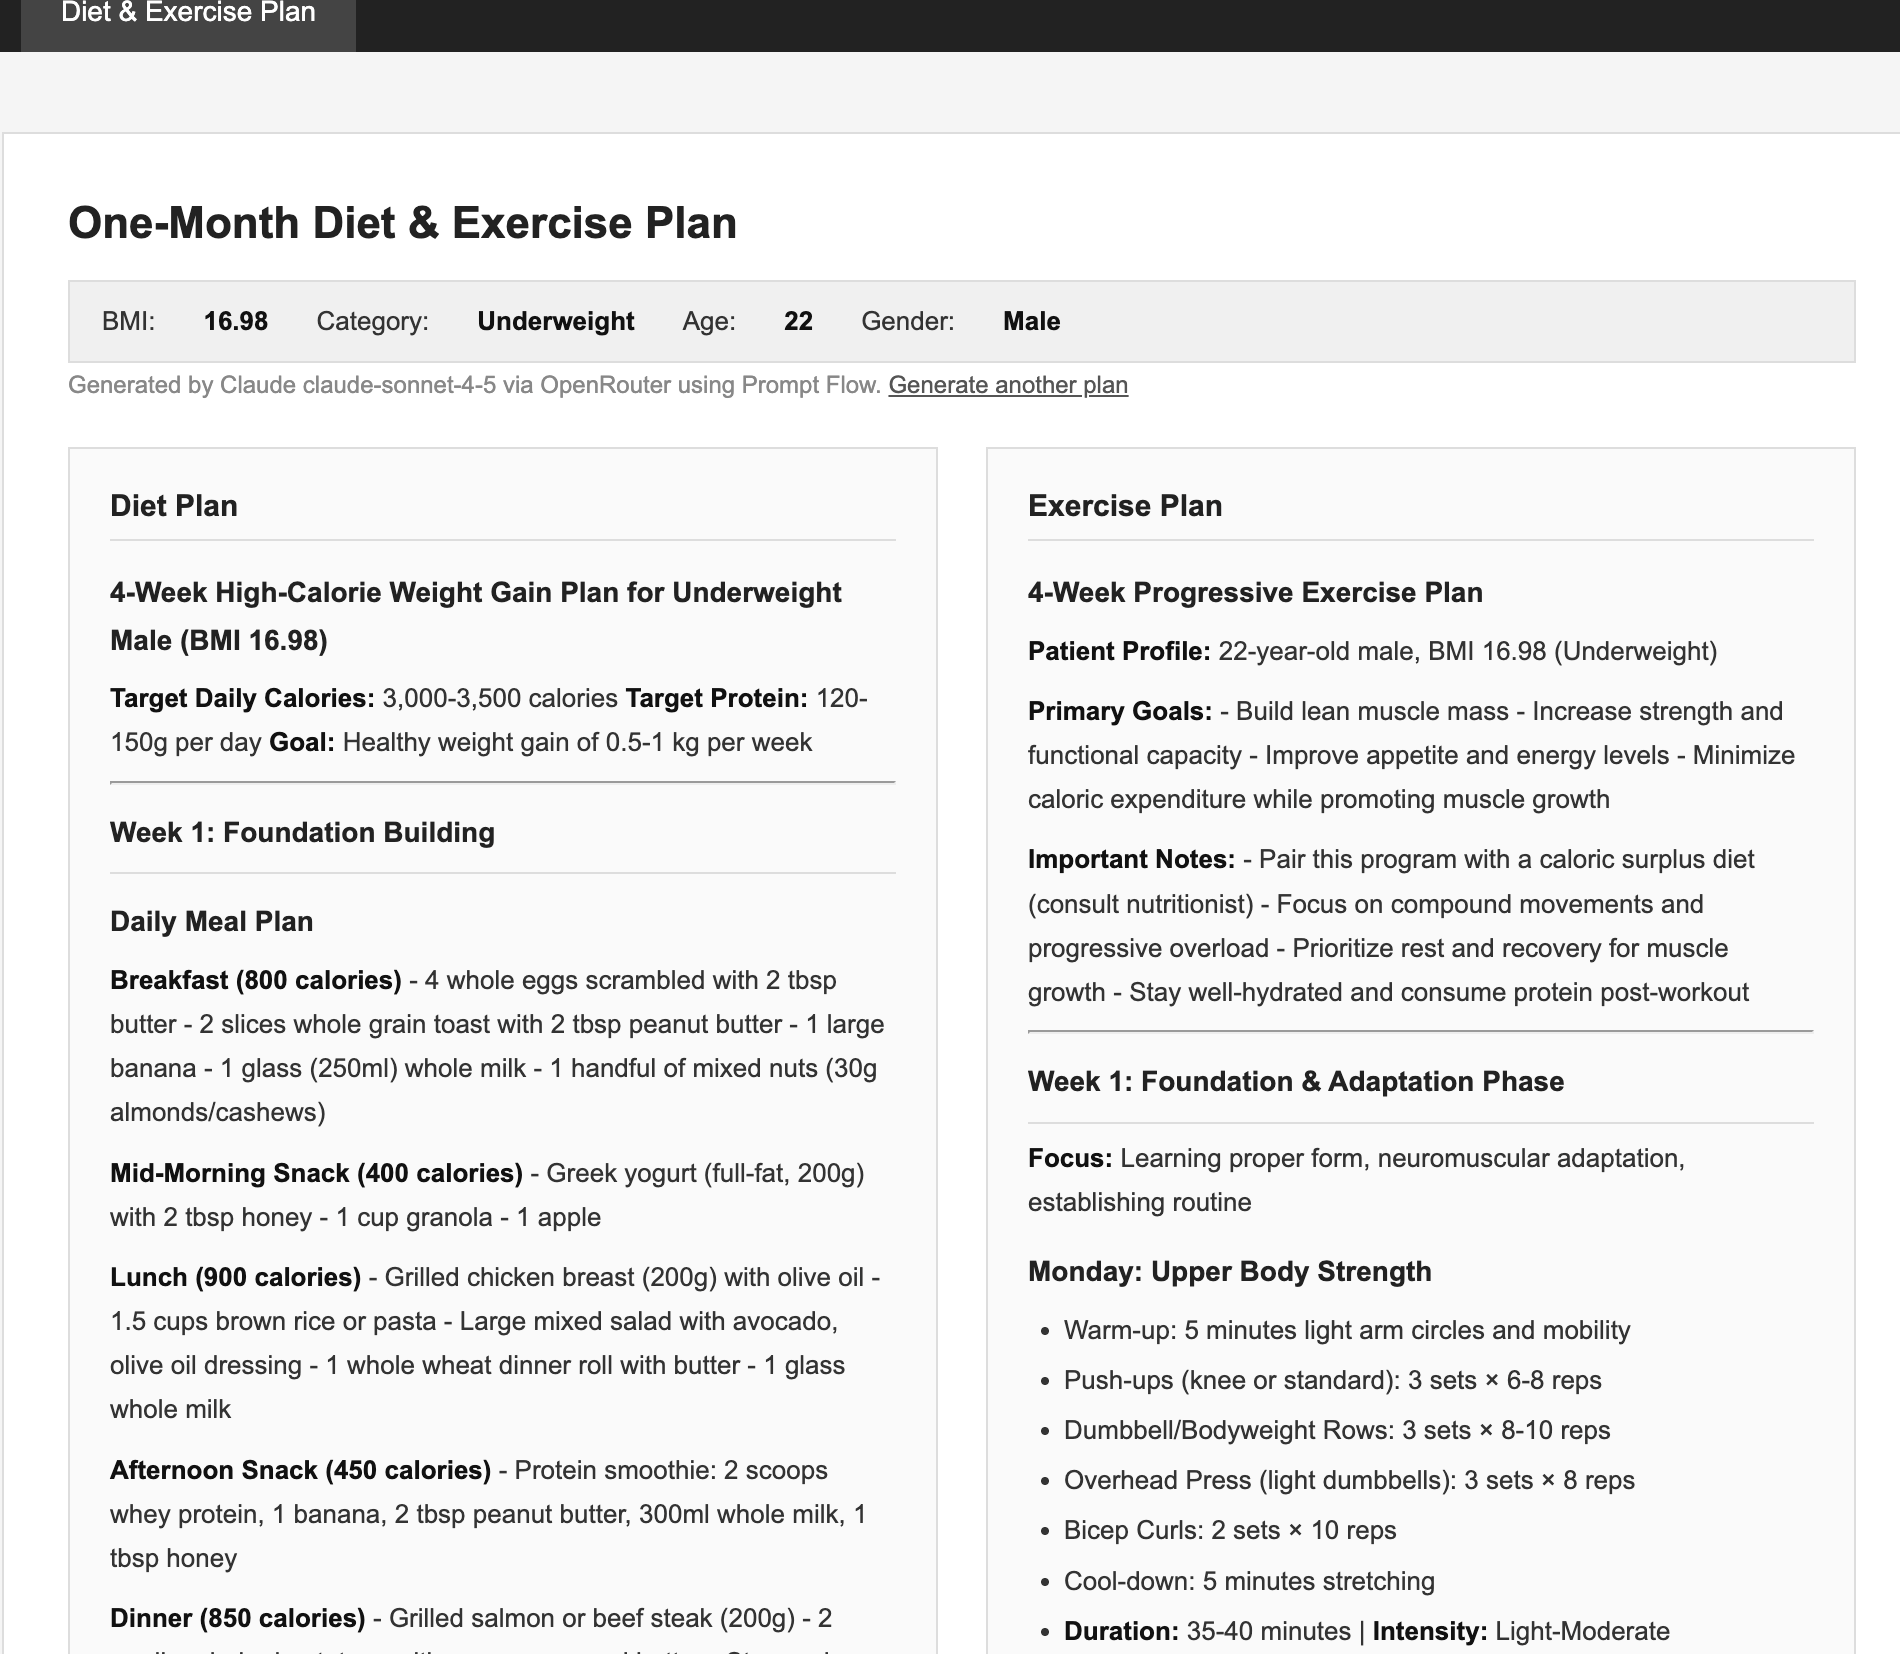
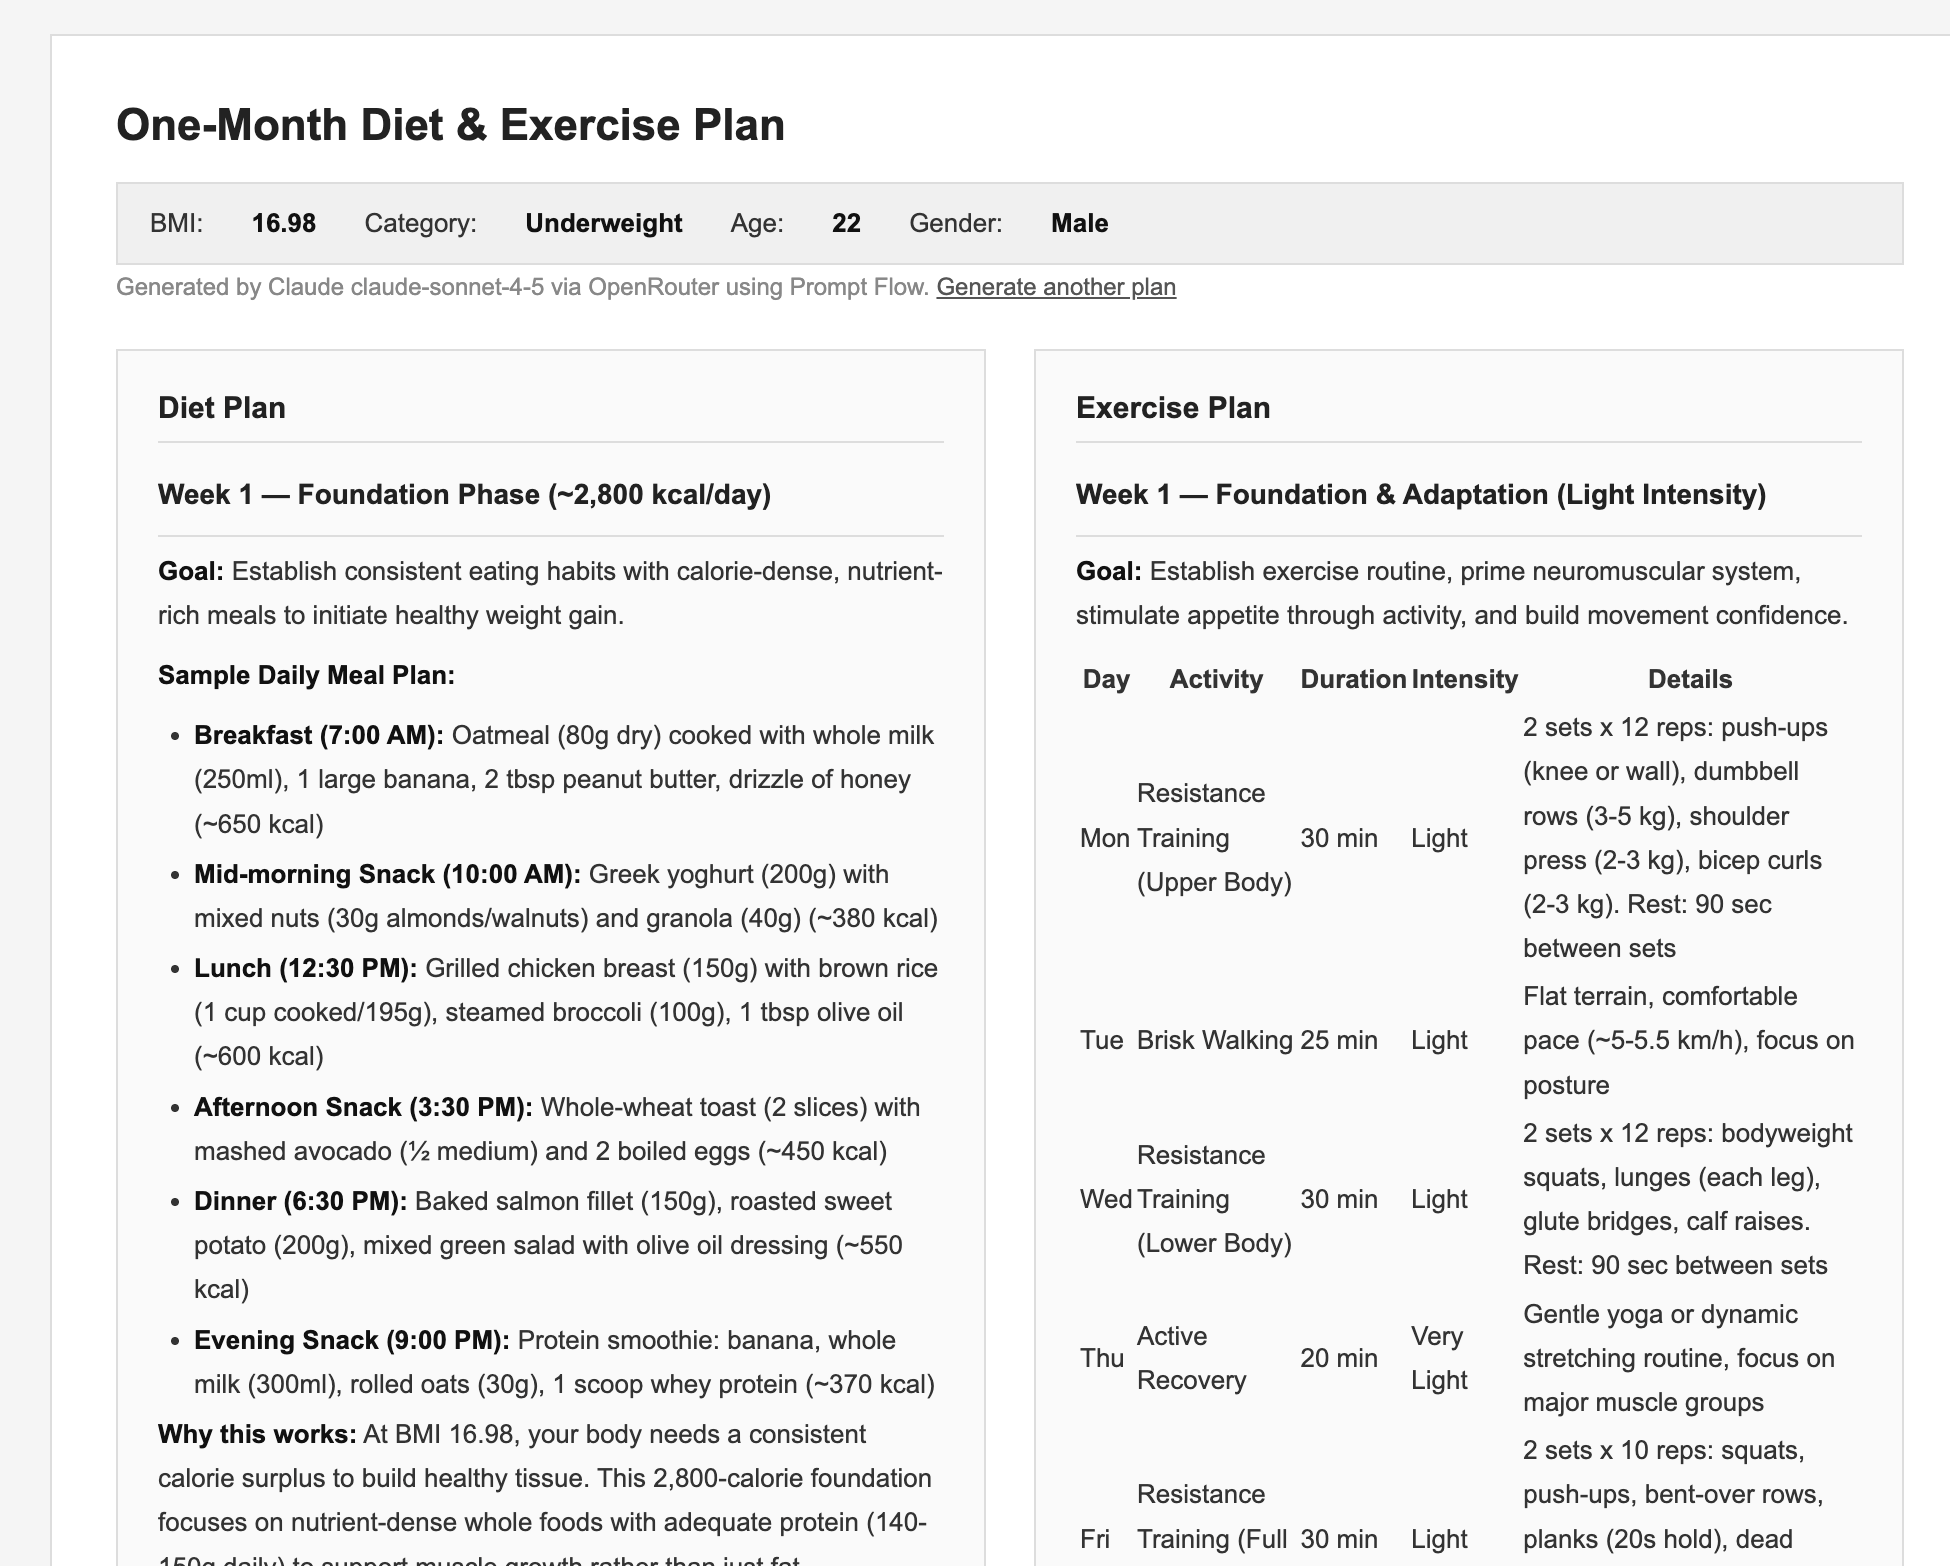
Enhance prompts with few-shot examples, role/style prompting, and format constraints
- Added persona-based role prompting (Dr. Sarah Chen, Coach Mike Rivera)
- Embedded few-shot examples with exact formatting for consistent output
- Added style prompting for warm/professional tone
- Specified calorie targets, portion sizes, sets/reps, table layouts
- Updated scenario screenshots with optimised prompt results

Made-with: Cursor

Changed region(s): [[0.0311, 0.1226, 0.9626, 1.0], [0.0, 0.0, 1.0, 0.0307], [0.0621, 0.0613, 0.4037, 0.092]]

diff --git a/W13A2/W13A3/flows/diet_exercise_plan/generate_exercise.py b/W13A2/W13A3/flows/diet_exercise_plan/generate_exercise.py
@@ -2,6 +2,34 @@ import os
 from openai import OpenAI
 from promptflow.core import tool
 
+SYSTEM_PROMPT = """\
+You are Coach Mike Rivera, a certified fitness trainer and exercise physiologist with 12 years \
+of experience designing safe, progressive training programmes. You write in a motivating, \
+clear, and structured tone. You always specify exact durations, sets/reps, rest periods, \
+and intensity levels (light / moderate / vigorous). Your plans account for the patient's \
+age, injury risk, and fitness baseline."""
+
+FEW_SHOT_EXAMPLE = """\
+Here is an example of how you format a weekly plan:
+
+## Week 1 — Getting Started (Low Intensity)
+
+**Goal:** Build a consistent exercise habit, assess baseline fitness, avoid injury.
+
+| Day | Activity | Duration | Intensity | Details |
+|-----|----------|----------|-----------|---------|
+| Mon | Brisk Walking | 30 min | Light | Flat terrain, comfortable pace (~5 km/h) |
+| Tue | Bodyweight Strength | 25 min | Light | 2 sets x 10 reps: squats, wall push-ups, glute bridges, planks (20s hold) |
+| Wed | Rest / Light Stretching | 15 min | Very Light | Full-body flexibility routine |
+| Thu | Brisk Walking | 30 min | Light–Moderate | Include 2 gentle inclines |
+| Fri | Bodyweight Strength | 25 min | Light | Same as Tue, aim for improved form |
+| Sat | Swimming or Cycling | 20 min | Light | Low-impact cardio alternative |
+| Sun | Rest | — | — | Full recovery day |
+
+> *Why this works:* Starting with low-intensity sessions prevents joint strain for an \
+older individual while building cardiovascular endurance and muscle memory.\
+"""
+
 
 @tool
 def generate_exercise(bmi: str, category: str, age: int, gender: str) -> str:
@@ -10,36 +38,40 @@ def generate_exercise(bmi: str, category: str, age: int, gender: str) -> str:
         api_key=os.environ["OPENROUTER_API_KEY"],
     )
 
-    prompt = f"""Patient profile:
+    prompt = f"""\
+**Patient Profile:**
 - BMI: {bmi} ({category})
 - Age: {age} years old
 - Gender: {gender}
 
-Create a structured 4-week exercise plan.
-Tailor the intensity, type, and frequency to this patient's BMI category, age, and gender.
+**Task:** Create a structured 4-week progressive exercise plan customised to this patient.
 
-Guidelines:
-- Underweight (especially young): progressive strength/resistance training to build muscle, light cardio
-- Normal: balanced mix of cardio and strength training
-- Overweight (especially older): low-impact cardio (walking, swimming, cycling), light resistance, avoid joint strain
+**Requirements:**
+1. Each week should have a theme and progressive intensity (e.g. Week 1 low → Week 4 moderate)
+2. Use a 7-day table format (Mon–Sun) with columns: Day, Activity, Duration, Intensity, Details
+3. Include a mix of cardio and strength exercises appropriate for the patient's profile:
+   - Underweight + young: emphasise strength/resistance training (3–4 days), moderate cardio (2 days)
+   - Normal: balanced 50/50 split of cardio and strength
+   - Overweight + older: prioritise low-impact cardio (walking, swimming, cycling), light resistance, joint-friendly movements
+4. Specify exact sets, reps, and rest periods for strength exercises
+5. Include at least 1–2 rest or active recovery days per week
+6. Add a brief "Why this works" note at the end of each week explaining the physiological reasoning
 
-Format the output in markdown with Week 1–4 as headers. For each week list daily activities with duration and intensity."""
+{FEW_SHOT_EXAMPLE}
+
+Now generate the complete 4-week plan for this patient. \
+Use the exact same formatting style and table layout as the example above. \
+Start directly with "## Week 1" — do not repeat the patient profile."""
 
     response = client.chat.completions.create(
         model="anthropic/claude-sonnet-4-5",
         messages=[
-            {
-                "role": "system",
-                "content": (
-                    "You are a certified fitness trainer and exercise physiologist. "
-                    "Provide safe, progressive, and realistic exercise plans."
-                ),
-            },
+            {"role": "system", "content": SYSTEM_PROMPT},
             {"role": "user", "content": prompt},
         ],
         temperature=0.4,
         top_p=0.85,
-        max_tokens=2000,
+        max_tokens=3000,
         frequency_penalty=0.3,
         presence_penalty=0.1,
         stop=["---END---"],

diff --git a/W13A2/W13A3/flows/diet_exercise_plan/generate_diet.py b/W13A2/W13A3/flows/diet_exercise_plan/generate_diet.py
@@ -2,6 +2,35 @@ import os
 from openai import OpenAI
 from promptflow.core import tool
 
+SYSTEM_PROMPT = """\
+You are Dr. Sarah Chen, a certified clinical nutritionist with 15 years of experience \
+in personalised meal planning. You write in a warm, encouraging, and professional tone. \
+You always include specific portion sizes (in grams or cups), estimated daily calorie \
+targets, and brief reasoning for why certain foods are chosen. \
+Your plans are practical for someone with limited cooking skills and a moderate grocery budget."""
+
+FEW_SHOT_EXAMPLE = """\
+Here is an example of how you format a weekly plan:
+
+## Week 1 — Foundation Phase (~2,800 kcal/day)
+
+**Goal:** Establish consistent eating habits with calorie-dense, nutrient-rich meals.
+
+**Sample Daily Meal Plan:**
+
+- **Breakfast (7:00 AM):** Oatmeal (80g dry) with whole milk, 1 banana, 2 tbsp peanut butter, \
+drizzle of honey (~650 kcal)
+- **Mid-morning Snack (10:00 AM):** Greek yoghurt (200g) with mixed nuts (30g) and granola (~350 kcal)
+- **Lunch (12:30 PM):** Grilled chicken breast (150g) with brown rice (1 cup cooked), steamed \
+broccoli, olive oil dressing (~600 kcal)
+- **Afternoon Snack (3:30 PM):** Whole-wheat toast (2 slices) with avocado and 2 boiled eggs (~450 kcal)
+- **Dinner (6:30 PM):** Salmon fillet (150g), sweet potato (200g), mixed salad (~550 kcal)
+- **Evening Snack (9:00 PM):** Protein smoothie with banana, milk, oats (~300 kcal)
+
+> *Why this works:* Spreading meals across 6 eating windows prevents fullness-related \
+discomfort and ensures sustained energy for a young active person.\
+"""
+
 
 @tool
 def generate_diet(bmi: str, category: str, age: int, gender: str) -> str:
@@ -10,36 +39,40 @@ def generate_diet(bmi: str, category: str, age: int, gender: str) -> str:
         api_key=os.environ["OPENROUTER_API_KEY"],
     )
 
-    prompt = f"""Patient profile:
+    prompt = f"""\
+**Patient Profile:**
 - BMI: {bmi} ({category})
 - Age: {age} years old
 - Gender: {gender}
 
-Create a structured 4-week diet plan with daily meal suggestions (breakfast, lunch, dinner, snacks).
-Tailor calorie targets and food choices specifically to this patient's BMI category, age, and gender.
+**Task:** Create a structured 4-week diet plan customised to this patient.
 
-Guidelines:
-- Underweight: high-calorie, protein-rich meals to support healthy weight gain
-- Normal: balanced, varied meals to maintain weight
-- Overweight: low-calorie, nutrient-dense meals to support gradual weight loss
+**Requirements:**
+1. Each week should have a theme/goal (e.g. "Foundation Phase", "Calorie Adjustment", etc.)
+2. Include specific foods with portion sizes and estimated calorie counts per meal
+3. Provide 6 eating occasions per day: breakfast, mid-morning snack, lunch, afternoon snack, dinner, evening snack
+4. Add a brief "Why this works" note at the end of each week explaining the nutritional reasoning
+5. Adjust total daily calories based on the BMI category:
+   - Underweight: ~2,500–3,000 kcal/day (calorie surplus for weight gain)
+   - Normal: ~2,000–2,400 kcal/day (maintenance)
+   - Overweight: ~1,400–1,800 kcal/day (moderate deficit for weight loss)
+6. Consider age and gender when selecting food types and portions
 
-Format the output in markdown with Week 1–4 as headers. For each week give a sample daily meal plan."""
+{FEW_SHOT_EXAMPLE}
+
+Now generate the complete 4-week plan for this patient. \
+Use the exact same formatting style as the example above. \
+Start directly with "## Week 1" — do not repeat the patient profile."""
 
     response = client.chat.completions.create(
         model="anthropic/claude-sonnet-4-5",
         messages=[
-            {
-                "role": "system",
-                "content": (
-                    "You are a certified nutritionist. Provide practical, "
-                    "realistic meal plans with specific food examples."
-                ),
-            },
+            {"role": "system", "content": SYSTEM_PROMPT},
             {"role": "user", "content": prompt},
         ],
         temperature=0.4,
         top_p=0.85,
-        max_tokens=2000,
+        max_tokens=3000,
         frequency_penalty=0.3,
         presence_penalty=0.1,
         stop=["---END---"],
